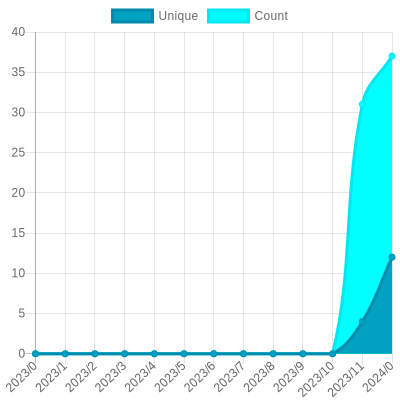
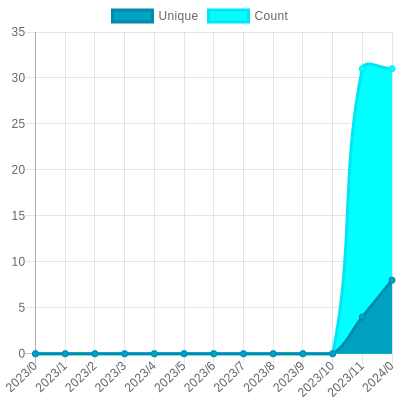
Update views

diff --git a/readme/577602088/year.md b/readme/577602088/year.md
@@ -23,10 +23,10 @@
 			<code>2023/1/1</code>
 		</td>
 		<td>
-			<code>12</code>
+			<code>8</code>
 		</td>
 		<td>
-			<code>37</code>
+			<code>31</code>
 		</td>
 	</tr>
 	<tr>
@@ -164,7 +164,7 @@
 </table>
 
 </details>
-<small><i>Last updated on 2023/1/18 12:10 PM UTC</i></small>
+<small><i>Last updated on 2023/1/18 6:08 PM UTC</i></small>
 
 ## ✂Copy and 📋 Paste
 ### SVG Badge

diff --git a/README.md b/README.md
@@ -549,7 +549,7 @@ The project created and maintained by [gayanvoice](https://github.com/gayanvoice
 	</tr>
 </table>
 
-<small><i>Last updated on 2023/1/18 12:10 PM UTC</i></small>
+<small><i>Last updated on 2023/1/18 6:08 PM UTC</i></small>
 
 ## ✂Copy and 📋 Paste
 ### Total Views Badge

diff --git a/readme/263074941/year.md b/readme/263074941/year.md
@@ -164,7 +164,7 @@
 </table>
 
 </details>
-<small><i>Last updated on 2023/1/18 12:04 PM UTC</i></small>
+<small><i>Last updated on 2023/1/18 6:03 PM UTC</i></small>
 
 ## ✂Copy and 📋 Paste
 ### SVG Badge

diff --git a/readme/279000759/year.md b/readme/279000759/year.md
@@ -164,7 +164,7 @@
 </table>
 
 </details>
-<small><i>Last updated on 2023/1/18 12:05 PM UTC</i></small>
+<small><i>Last updated on 2023/1/18 6:04 PM UTC</i></small>
 
 ## ✂Copy and 📋 Paste
 ### SVG Badge

diff --git a/readme/334980490/year.md b/readme/334980490/year.md
@@ -164,7 +164,7 @@
 </table>
 
 </details>
-<small><i>Last updated on 2023/1/18 12:05 PM UTC</i></small>
+<small><i>Last updated on 2023/1/18 6:04 PM UTC</i></small>
 
 ## ✂Copy and 📋 Paste
 ### SVG Badge

diff --git a/readme/504454517/year.md b/readme/504454517/year.md
@@ -164,7 +164,7 @@
 </table>
 
 </details>
-<small><i>Last updated on 2023/1/18 12:05 PM UTC</i></small>
+<small><i>Last updated on 2023/1/18 6:04 PM UTC</i></small>
 
 ## ✂Copy and 📋 Paste
 ### SVG Badge

diff --git a/readme/568276977/year.md b/readme/568276977/year.md
@@ -164,7 +164,7 @@
 </table>
 
 </details>
-<small><i>Last updated on 2023/1/18 12:05 PM UTC</i></small>
+<small><i>Last updated on 2023/1/18 6:04 PM UTC</i></small>
 
 ## ✂Copy and 📋 Paste
 ### SVG Badge

diff --git a/readme/569458150/year.md b/readme/569458150/year.md
@@ -164,7 +164,7 @@
 </table>
 
 </details>
-<small><i>Last updated on 2023/1/18 12:05 PM UTC</i></small>
+<small><i>Last updated on 2023/1/18 6:04 PM UTC</i></small>
 
 ## ✂Copy and 📋 Paste
 ### SVG Badge

diff --git a/readme/570860116/year.md b/readme/570860116/year.md
@@ -164,7 +164,7 @@
 </table>
 
 </details>
-<small><i>Last updated on 2023/1/18 12:06 PM UTC</i></small>
+<small><i>Last updated on 2023/1/18 6:04 PM UTC</i></small>
 
 ## ✂Copy and 📋 Paste
 ### SVG Badge

diff --git a/readme/571632630/year.md b/readme/571632630/year.md
@@ -164,7 +164,7 @@
 </table>
 
 </details>
-<small><i>Last updated on 2023/1/18 12:06 PM UTC</i></small>
+<small><i>Last updated on 2023/1/18 6:05 PM UTC</i></small>
 
 ## ✂Copy and 📋 Paste
 ### SVG Badge

diff --git a/readme/572226732/year.md b/readme/572226732/year.md
@@ -164,7 +164,7 @@
 </table>
 
 </details>
-<small><i>Last updated on 2023/1/18 12:08 PM UTC</i></small>
+<small><i>Last updated on 2023/1/18 6:06 PM UTC</i></small>
 
 ## ✂Copy and 📋 Paste
 ### SVG Badge

diff --git a/readme/573261062/year.md b/readme/573261062/year.md
@@ -164,7 +164,7 @@
 </table>
 
 </details>
-<small><i>Last updated on 2023/1/18 12:08 PM UTC</i></small>
+<small><i>Last updated on 2023/1/18 6:06 PM UTC</i></small>
 
 ## ✂Copy and 📋 Paste
 ### SVG Badge
